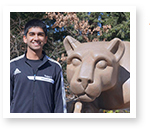
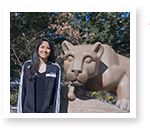
Updated Newsletter
Updated Newsletter June

diff --git a/newsletter/index.html b/newsletter/index.html
@@ -1,7 +1,8 @@
-<!DOCTYPE html PUBLIC "-//W3C//DTD XHTML 1.0 Transitional//EN" "http://www.w3.org/TR/xhtml1/DTD/xhtml1-transitional.dtd">
+<!DOCTYPE html >
 <html xmlns="http://www.w3.org/1999/xhtml">
 <head>
 <meta http-equiv="Content-Type" content="text/html; charset=utf-8" />
+<link rel="shortcut icon" href="">
 <title>Infusion Newsletter</title>
 </head>
 
@@ -24,7 +25,7 @@
                         </table></td>
                     </tr>
                     <tr>
-                      <td height="30"><img src="images/blueline.jpg" width="343" height="30" border="0" alt=""/></td>
+                      <td height="30"><img src="http://www.pennstateinfusion.org/newsletter/images/blueline.jpg" width="343" height="30" border="0" alt=""/></td>
                     </tr>
                   </table></td>
               </tr>
@@ -52,8 +53,126 @@
                             <td height="35" align="left" valign="middle" style="border-bottom:2px dotted #000000"><font style="font-family: Georgia, 'Times New Roman', Times, serif; color:#000000; font-size:25px"><strong><em>Introducting Infusion 2017</em></strong></font></td>
                           </tr>
                           <tr>
-                            <td align="left" valign="top"><font style="font-family: Verdana, Geneva, sans-serif; color:#000000; font-size:13px; line-height:21px">Main Info</font></td>
+                            <td align="left" valign="top"><font style="font-family: Verdana, Geneva, sans-serif; color:#000000; font-size:13px; line-height:21px">To start off the fifth year of <i>Infusion</i>, the <i>Infusion</i> 2017 board would first like to thank you for all the support this past year. As we prepare for another successful year, we look forward to being in contact with you and updating you on the latest <i>Infusion</i> news using our newsletters. As the new board of <i>Infusion</i>, our goal is to continue the legacy this year and take the competition one step further as is done every year. To build a stronger relationship for the alumni and future boards, we have made this information sheet that we would like you to fill out so we can be in touch in different ways. Thank you!</br></br></font></td>
                           </tr>
+                          
+                          
+                          
+                          
+                          
+                    <tr>
+                        <td><table width="100%" border="0" cellspacing="0" cellpadding="0">
+                          <tr>
+                            <td><table width="100%" border="0" cellspacing="0" cellpadding="0">
+                              <tr>
+                                <td width="12%">&nbsp;</td>
+                                <td width="79%" bgcolor="#05bcda"><table width="100%" border="0" cellspacing="0" cellpadding="0">
+                                  <tr>
+                                    <td width="5%"></td>
+                                    <td width="90%" height="10"></td>
+                                    <td width="5%"></td>
+                                  </tr>
+                                  <tr>
+                                    <td>&nbsp;</td>
+                                    <td align="center"><font style="font-family: Georgia, 'Times New Roman', Times, serif; color:#ffffff; font-size:16px"><strong>BIRTHDAY SHOUTOUTS</strong></font></td>
+                                    <td>&nbsp;</td>
+                                  </tr>
+                                  <tr>
+                                    <td></td>
+                                    <td><table width="100%" border="0" cellspacing="0" cellpadding="0">
+                                      <tr>
+                                        <td height="5" style="border-bottom:1px solid #ffffff"></td>
+                                      </tr>
+                                      <tr>
+                                        <td height="5"></td>
+                                      </tr>
+                                    </table></td>
+                                    <td></td>
+                                  </tr>
+                                  <tr>
+                                    <td>&nbsp;</td>
+                                    <td align="left" valign="top"><font style="font-family: Georgia, 'Times New Roman', Times, serif; color:#ffffff; font-size:14px; line-height:21px"><i>Infusion</i> would like to wish these awesome people a very happy birthday!</font></td>
+                                    <td>&nbsp;</td>
+                                  </tr>
+                                  <tr>
+                                    <td>&nbsp;</td>
+                                    <td align="center"><font style="font-family: Georgia, 'Times New Roman', Times, serif; color:#ffffff; font-size:14px"><strong>RECENT BIRTHDAYS</strong></font></td>
+                                    <td>&nbsp;</td>
+                                  </tr>
+                                  <tr>
+                                    <td></td>
+                                    <td><table width="100%" border="0" cellspacing="0" cellpadding="0">
+                                      <tr>
+                                        <td height="5" style="border-bottom:1px solid #ffffff"></td>
+                                      </tr>
+                                      <tr>
+                                        <td height="5"></td>
+                                      </tr>
+                                    </table></td>
+                                    <td></td>
+                                  </tr>
+                                  <tr>
+                                    <td>&nbsp;</td>
+                                    <td align="middle" valign="top"><font style="font-family: Georgia, 'Times New Roman', Times, serif; color:#ffffff; font-size:12px; line-height:21px">Shivani Khushal &nbsp &nbsp &nbsp &nbsp<font style="font-family: Georgia, 'Times New Roman', Times, serif; color:#ffffff; font-size:10px; line-height:21px">May 1st</font></font></td>
+                                    <td>&nbsp;</td>
+                                  </tr>
+                                  <tr>
+                                    <td>&nbsp;</td>
+                                    <td align="middle" valign="top"><font style="font-family: Georgia, 'Times New Roman', Times, serif; color:#ffffff; font-size:12px; line-height:21px">Anuj Ahluwalia &nbsp &nbsp &nbsp &nbsp<font style="font-family: Georgia, 'Times New Roman', Times, serif; color:#ffffff; font-size:10px; line-height:21px">May 30th</font></font></td>
+                                    <td>&nbsp;</td>
+                                  </tr>
+                                  <!--<tr>
+                                    <td>&nbsp;</td>
+                                    <td align="center"><a href="http://yourlink" target="_blank"><img src="images/NEWSLETTER GREEN04.jpg" alt="view more offers" width="129" height="43" style="display:block" border="0"/></a></td>
+                                    <td>&nbsp;</td>
+                                  </tr>-->
+                                  
+                                  <tr>
+                                    <td>&nbsp;</td>
+                                    <td align="center"><font style="font-family: Georgia, 'Times New Roman', Times, serif; color:#ffffff; font-size:14px"><strong>UPCOMING BIRTHDAYS</strong></font></td>
+                                    <td>&nbsp;</td>
+                                  </tr>
+                                  <tr>
+                                    <td></td>
+                                    <td><table width="100%" border="0" cellspacing="0" cellpadding="0">
+                                      <tr>
+                                        <td height="5" style="border-bottom:1px solid #ffffff"></td>
+                                      </tr>
+                                      <tr>
+                                        <td height="5"></td>
+                                      </tr>
+                                    </table></td>
+                                    <td></td>
+                                  </tr>
+                                  <tr>
+                                    <td>&nbsp;</td>
+                                    <td align="middle" valign="top"><font style="font-family: Georgia, 'Times New Roman', Times, serif; color:#ffffff; font-size:12px; line-height:21px">Vedant Tiwari &nbsp &nbsp &nbsp &nbsp<font style="font-family: Georgia, 'Times New Roman', Times, serif; color:#ffffff; font-size:10px; line-height:21px">June 17th</font></font></td>
+                                    <td>&nbsp;</td>
+                                  </tr>
+                                  <!--<tr>
+                                    <td>&nbsp;</td>
+                                    <td align="center"><a href="http://yourlink" target="_blank"><img src="images/NEWSLETTER GREEN04.jpg" alt="view more offers" width="129" height="43" style="display:block" border="0"/></a></td>
+                                    <td>&nbsp;</td>
+                                  </tr>-->
+                                  <tr>
+                                    <td>&nbsp;</td>
+                                    <td>&nbsp;</td>
+                                    <td>&nbsp;</td>
+                                  </tr>
+                                </table></td>
+                                <td width="9%" >&nbsp;</td>
+                              </tr>
+                            </table></td>
+                          </tr>
+                          <tr>
+                            <td>&nbsp;</td>
+                          </tr>
+                        </table></td>
+                      </tr>
+                          
+                          
+                          
+                          
                           <tr>
                             <td height="35" align="left" valign="middle" style="border-bottom:2px dotted #000000"><font style="font-family: Georgia, 'Times New Roman', Times, serif; color:#000000; font-size:15px"><strong><em>Introducting the Infusion 2017 Board</em></strong></font></td>
                             <td><table width="100%" border="0" cellspacing="0" cellpadding="0">
@@ -69,8 +188,9 @@
                             <td><table width="100%" border="0" cellspacing="0" cellpadding="0">
                               <tr>
                                 <td width="43%"><img src="http://www.pennstateinfusion.org/newsletter/images/pic1.jpg" width="150" height="130" border="0" alt=""/></td>
-                                <td width="57%" align="left" valign="top"><font style="font-family: Georgia, 'Times New Roman', Times, serif; color:#05bcda; font-size:20px"><strong><em>First Board Member</em></strong></font> <br />
-                                  <font style="font-family: Verdana, Geneva, sans-serif; color:#000000; font-size:13px; line-height:21px">Bio</font> <font style="font-family:Verdana, Geneva, sans-serif; color:#05bcda; font-size:12px; line-height:20px"></font><font style="font-family: Verdana, Geneva, sans-serif; color:#000000; font-size:13px; line-height:21px">&nbsp; </font></td>
+                                <td width="57%" align="left" valign="top"><font style="font-family: Georgia, 'Times New Roman', Times, serif; color:#05bcda; font-size:20px"><strong><em>Alisha Jaggi</em></strong></font> <br />
+                                  <font style="font-family: Georgia, 'Times New Roman', Times, serif; color:#05bcda; font-size:15px">Events Director</font> <br />
+                                  <font style="font-family: Verdana, Geneva, sans-serif; color:#000000; font-size:13px; line-height:21px">Alisha Jaggi is a senior studying Supply Chain Management with a minor in Information Systems Management here at Penn State. After being a volunteer for <i>Infusion</i> 2016, she is super excited to be joining board as one of the Event Directors this year. Along with <i>Infusion</i>, Alisha is a sister and former President of Sigma Sigma Rho Sorority, Inc. A fun fact about Alisha is she has played softball since the age of 6. In her free time, you will most likely find her hanging out with friends or binge watching the latest drama series on Netflix. Alisha is looking forward to showing her passion and enthusiasm while bringing <i>Infusion</i> 2017 to new heights!</font> <font style="font-family:Verdana, Geneva, sans-serif; color:#05bcda; font-size:12px; line-height:20px"></font><font style="font-family: Verdana, Geneva, sans-serif; color:#000000; font-size:13px; line-height:21px">&nbsp; </font></td>
                               </tr>
                             </table></td>
                           </tr>
@@ -88,8 +208,9 @@
                             <td><table width="100%" border="0" cellspacing="0" cellpadding="0">
                               <tr>
                                 <td width="43%"><img src="http://www.pennstateinfusion.org/newsletter/images/pic2.jpg" width="150" height="130" border="0" alt=""/></td>
-                                <td width="57%" align="left" valign="top"><font style="font-family: Georgia, 'Times New Roman', Times, serif; color:#05bcda; font-size:20px"><strong><em>Second Board Member</em></strong></font> <br />
-                                  <font style="font-family: Verdana, Geneva, sans-serif; color:#000000; font-size:13px; line-height:21px">Bio</font> <font style="font-family:Verdana, Geneva, sans-serif; color:#05bcda; font-size:12px; line-height:20px"></font><font style="font-family: Verdana, Geneva, sans-serif; color:#000000; font-size:13px; line-height:21px">&nbsp; </font></td>
+                                <td width="57%" align="left" valign="top"><font style="font-family: Georgia, 'Times New Roman', Times, serif; color:#05bcda; font-size:20px"><strong><em>Anjana Setlur</em></strong></font> <br />
+                                  <font style="font-family: Georgia, 'Times New Roman', Times, serif; color:#05bcda; font-size:15px">Sponsorship Director</font> <br />
+                                  <font style="font-family: Verdana, Geneva, sans-serif; color:#000000; font-size:13px; line-height:21px">Anjana Setlur is a junior majoring in BioRenewable Systems. She is ecstatic to be returning for her second year on board as Sponsorship Director. In Anjana's free time she likes to watch Netflix, play soccer, or look at pictures of her dog, Arthur. She's loved her experiences with Infusion the past two years and can't wait to see what <i>Infusion</i> 2017 has in store!  </font> <font style="font-family:Verdana, Geneva, sans-serif; color:#05bcda; font-size:12px; line-height:20px"></font><font style="font-family: Verdana, Geneva, sans-serif; color:#000000; font-size:13px; line-height:21px">&nbsp; </font></td>
                               </tr>
                             </table></td>
                           </tr>
@@ -106,9 +227,10 @@
                           <tr>
                             <td><table width="100%" border="0" cellspacing="0" cellpadding="0">
                               <tr>
-                                <td width="43%"><img src="http://www.pennstateinfusion.org/newsletter/images/pic2.jpg" width="150" height="130" border="0" alt=""/></td>
-                                <td width="57%" align="left" valign="top"><font style="font-family: Georgia, 'Times New Roman', Times, serif; color:#05bcda; font-size:20px"><strong><em>Third Board Member</em></strong></font> <br />
-                                  <font style="font-family: Verdana, Geneva, sans-serif; color:#000000; font-size:13px; line-height:21px">Bio</font> <font style="font-family:Verdana, Geneva, sans-serif; color:#05bcda; font-size:12px; line-height:20px"></font><font style="font-family: Verdana, Geneva, sans-serif; color:#000000; font-size:13px; line-height:21px">&nbsp; </font></td>
+                                <td width="43%"><img src="http://www.pennstateinfusion.org/newsletter/images/pic3.jpg" width="150" height="130" border="0" alt=""/></td>
+                                <td width="57%" align="left" valign="top"><font style="font-family: Georgia, 'Times New Roman', Times, serif; color:#05bcda; font-size:20px"><strong><em>Gitanjali Bhushan</em></strong></font> <br />
+                                  <font style="font-family: Georgia, 'Times New Roman', Times, serif; color:#05bcda; font-size:15px">Events Director</font> <br />
+                                  <font style="font-family: Verdana, Geneva, sans-serif; color:#000000; font-size:13px; line-height:21px">Gitanjali is a senior majoring in Immunology and Infectious Disease with a minor in Spanish language. She can't wait to be back for her 4th year of <i>Infusion</i>. She started off as a public relations manager for <i>Infusion</i> 2014 then moved on as a Public relations director for <i>Infusion</i> 2015. She is excited to see what's in store for <i>Infusion</i> 2017.</font> <font style="font-family:Verdana, Geneva, sans-serif; color:#05bcda; font-size:12px; line-height:20px"></font><font style="font-family: Verdana, Geneva, sans-serif; color:#000000; font-size:13px; line-height:21px">&nbsp; </font></td>
                               </tr>
                             </table></td>
                           </tr>
@@ -125,9 +247,10 @@
                           <tr>
                             <td><table width="100%" border="0" cellspacing="0" cellpadding="0">
                               <tr>
-                                <td width="43%"><img src="http://www.pennstateinfusion.org/newsletter/images/pic2.jpg" width="150" height="130" border="0" alt=""/></td>
-                                <td width="57%" align="left" valign="top"><font style="font-family: Georgia, 'Times New Roman', Times, serif; color:#05bcda; font-size:20px"><strong><em>Fourth Board Member</em></strong></font> <br />
-                                  <font style="font-family: Verdana, Geneva, sans-serif; color:#000000; font-size:13px; line-height:21px">Bio</font> <font style="font-family:Verdana, Geneva, sans-serif; color:#05bcda; font-size:12px; line-height:20px"></font><font style="font-family: Verdana, Geneva, sans-serif; color:#000000; font-size:13px; line-height:21px">&nbsp; </font></td>
+                                <td width="43%"><img src="http://www.pennstateinfusion.org/newsletter/images/pic4.jpg" width="150" height="130" border="0" alt=""/></td>
+                                <td width="57%" align="left" valign="top"><font style="font-family: Georgia, 'Times New Roman', Times, serif; color:#05bcda; font-size:20px"><strong><em>Kajal Jaggi</em></strong></font> <br />
+                                  <font style="font-family: Georgia, 'Times New Roman', Times, serif; color:#05bcda; font-size:15px">Registration Director</font> <br />
+                                  <font style="font-family: Verdana, Geneva, sans-serif; color:#000000; font-size:13px; line-height:21px">Kajal Jaggi is a Senior studying Hospitality Management. Ever since she was a child, she has had a passion for dancing by taking classes, starting up classes for children, and even dancing for Penn State JaDhoom. This is Kajal's third and final year on <i>Infusion</i> board, having served as the Executive/Registration Director in 2016 and the Sponsorship Director in 2015. When she's not spending time with her lovely family, you can find her relaxing with a Starbucks in her hand and being a reality show junkie.</font> <font style="font-family:Verdana, Geneva, sans-serif; color:#05bcda; font-size:12px; line-height:20px"></font><font style="font-family: Verdana, Geneva, sans-serif; color:#000000; font-size:13px; line-height:21px">&nbsp; </font></td>
                               </tr>
                             </table></td>
                           </tr>
@@ -144,9 +267,10 @@
                           <tr>
                             <td><table width="100%" border="0" cellspacing="0" cellpadding="0">
                               <tr>
-                                <td width="43%"><img src="http://www.pennstateinfusion.org/newsletter/images/pic2.jpg" width="150" height="130" border="0" alt=""/></td>
-                                <td width="57%" align="left" valign="top"><font style="font-family: Georgia, 'Times New Roman', Times, serif; color:#05bcda; font-size:20px"><strong><em>Fifth Board Member</em></strong></font> <br />
-                                  <font style="font-family: Verdana, Geneva, sans-serif; color:#000000; font-size:13px; line-height:21px">Bio</font> <font style="font-family:Verdana, Geneva, sans-serif; color:#05bcda; font-size:12px; line-height:20px"></font><font style="font-family: Verdana, Geneva, sans-serif; color:#000000; font-size:13px; line-height:21px">&nbsp; </font></td>
+                                <td width="43%"><img src="http://www.pennstateinfusion.org/newsletter/images/pic5.jpg" width="150" height="130" border="0" alt=""/></td>
+                                <td width="57%" align="left" valign="top"><font style="font-family: Georgia, 'Times New Roman', Times, serif; color:#05bcda; font-size:20px"><strong><em>Pratyush Parasana</em></strong></font> <br />
+                                  <font style="font-family: Georgia, 'Times New Roman', Times, serif; color:#05bcda; font-size:15px">Registration Director</font> <br />
+                                  <font style="font-family: Verdana, Geneva, sans-serif; color:#000000; font-size:13px; line-height:21px">Pratyush Parasana is a Junior majoring in Sociology and minoring in Math and Chemistry. Not a dancer himself but his passion has driven him to get more involved in the fusion circuit. Prat began his <i>Infusion</i> career as a volunteer in 2015 and Liaison for 2016. When he is not stressing about DAT's and life in general, you may occasionally spot him playing Frisbee out and about. Pratyush also likes to take a break and relax by watching The 100 or re-watching shows such as Burn Notice and NCIS. </font> <font style="font-family:Verdana, Geneva, sans-serif; color:#05bcda; font-size:12px; line-height:20px"></font><font style="font-family: Verdana, Geneva, sans-serif; color:#000000; font-size:13px; line-height:21px">&nbsp; </font></td>
                               </tr>
                             </table></td>
                           </tr>
@@ -163,9 +287,10 @@
                           <tr>
                             <td><table width="100%" border="0" cellspacing="0" cellpadding="0">
                               <tr>
-                                <td width="43%"><img src="http://www.pennstateinfusion.org/newsletter/images/pic2.jpg" width="150" height="130" border="0" alt=""/></td>
-                                <td width="57%" align="left" valign="top"><font style="font-family: Georgia, 'Times New Roman', Times, serif; color:#05bcda; font-size:20px"><strong><em>Sixth Board Member</em></strong></font> <br />
-                                  <font style="font-family: Verdana, Geneva, sans-serif; color:#000000; font-size:13px; line-height:21px">Bio</font> <font style="font-family:Verdana, Geneva, sans-serif; color:#05bcda; font-size:12px; line-height:20px"></font><font style="font-family: Verdana, Geneva, sans-serif; color:#000000; font-size:13px; line-height:21px">&nbsp; </font></td>
+                                <td width="43%"><img src="http://www.pennstateinfusion.org/newsletter/images/pic6.jpg" width="150" height="130" border="0" alt=""/></td>
+                                <td width="57%" align="left" valign="top"><font style="font-family: Georgia, 'Times New Roman', Times, serif; color:#05bcda; font-size:20px"><strong><em>Shonaq Gupta</em></strong></font> <br />
+                                  <font style="font-family: Georgia, 'Times New Roman', Times, serif; color:#05bcda; font-size:15px">Finance Director</font> <br />
+                                  <font style="font-family: Verdana, Geneva, sans-serif; color:#000000; font-size:13px; line-height:21px">Originally from New Delhi, India- Shonaq is a Senior majoring in Supply Chain and Information systems and double minoring in Economics and Entrepreneurship. As he started living his “American College” dream here at Penn State, he got acquainted with the Filmi-Fusion dance circuit through <i>Infusion</i> and is now all set to take it to new heights. Shonaq is the "go to guy" to know about the best music and beat drops as he is a big fan of EDM (Electronic Dance Music) and Hindi music. In his free time you may find him sitting with his beloved laptop, catching up with Bollywood and Hollywood movies or traveling around the world exploring new cultures and food.</font> <font style="font-family:Verdana, Geneva, sans-serif; color:#05bcda; font-size:12px; line-height:20px"></font><font style="font-family: Verdana, Geneva, sans-serif; color:#000000; font-size:13px; line-height:21px">&nbsp; </font></td>
                               </tr>
                             </table></td>
                           </tr>
@@ -182,9 +307,10 @@
                           <tr>
                             <td><table width="100%" border="0" cellspacing="0" cellpadding="0">
                               <tr>
-                                <td width="43%"><img src="http://www.pennstateinfusion.org/newsletter/images/pic2.jpg" width="150" height="130" border="0" alt=""/></td>
-                                <td width="57%" align="left" valign="top"><font style="font-family: Georgia, 'Times New Roman', Times, serif; color:#05bcda; font-size:20px"><strong><em>Seventh Board Member</em></strong></font> <br />
-                                  <font style="font-family: Verdana, Geneva, sans-serif; color:#000000; font-size:13px; line-height:21px">Bio</font> <font style="font-family:Verdana, Geneva, sans-serif; color:#05bcda; font-size:12px; line-height:20px"></font><font style="font-family: Verdana, Geneva, sans-serif; color:#000000; font-size:13px; line-height:21px">&nbsp; </font></td>
+                                <td width="43%"><img src="http://www.pennstateinfusion.org/newsletter/images/pic7.jpg" width="150" height="130" border="0" alt=""/></td>
+                                <td width="57%" align="left" valign="top"><font style="font-family: Georgia, 'Times New Roman', Times, serif; color:#05bcda; font-size:20px"><strong><em>Vedant Tiwari</em></strong></font> <br />
+                                  <font style="font-family: Georgia, 'Times New Roman', Times, serif; color:#05bcda; font-size:15px">Executive and Tech & Production Director</font> <br />
+                                  <font style="font-family: Verdana, Geneva, sans-serif; color:#000000; font-size:13px; line-height:21px">"Imagination is the power you cannot imagine" I believe there really is no limit to possibilities today. I like to tackle every challenge with more challenges; if something needs to get done, why not put a time limit on there to make myself work harder? My favortie hobby by far is driving (You recent alumni know this)! As a returning Technology & Production Director, I hope to use my tech skills to take <i>Infusion</i> one step further this year. As an Executive Director, I hope to make everyone's dream <i>Infusion</i> weekend happen.</font> <font style="font-family:Verdana, Geneva, sans-serif; color:#05bcda; font-size:12px; line-height:20px"></font><font style="font-family: Verdana, Geneva, sans-serif; color:#000000; font-size:13px; line-height:21px">&nbsp; </font></td>
                               </tr>
                             </table></td>
                           </tr>
@@ -202,7 +328,7 @@
                       <tr>
                         <td height="10"> </td>
                       </tr>
-                      <!--<tr>
+                      <tr>
                         <td><table width="100%" border="0" cellspacing="0" cellpadding="0">
                           <tr>
                             <td><a href="http://yourlink" target="_blank"><img src="images/NEWSLETTER GREEN03.jpg" alt="buy her" width="181" height="144" border="0"/></a></td>
@@ -217,7 +343,7 @@
                                     <td width="90%" height="10"></td>
                                     <td width="5%"></td>
                                   </tr>
-                                  <tr>--
+                                  <tr>
                                     <td>&nbsp;</td>
                                     <td align="center"><font style="font-family: Georgia, 'Times New Roman', Times, serif; color:#ffffff; font-size:16px"><strong>SPECIAL
                                       COLUMN</strong></font></td>
@@ -276,7 +402,7 @@
           <td>&nbsp;</td>
         </tr>
         <tr>
-          <td><img src="images/line.jpg" width="598" height="7" style="display:block" border="0" alt=""/></td>
+          <td><img src="http://www.pennstateinfusion.org/newsletter/images/line.jpg" width="598" height="7" style="display:block" border="0" alt=""/></td>
         </tr>
         <tr>
           <td>&nbsp;</td>
@@ -306,7 +432,7 @@
           <td>&nbsp;</td>
         </tr>
         <tr>
-          <td align="center"><font style="font-family:'Myriad Pro', Helvetica, Arial, sans-serif; color:#231f20; font-size:8px"><strong>The Infusion Management Team | Please email back with "STOP" to unsubscribe | email: pennstateinfusion@gmail.com | <a href= "http://www.pennstateinfusion.org" style="color:#010203; text-decoration:none">www.pennstateinfusion.org</a></strong></font></td>
+          <td align="center"><font style="font-family:'Myriad Pro', Helvetica, Arial, sans-serif; color:#231f20; font-size:8px"><strong>The Infusion Management Team | Reply with "UNSUBSCRIBE" to unsubscribe | Email: pennstateinfusion@gmail.com | <a href= "http://www.pennstateinfusion.org" style="color:#010203; text-decoration:none">www.pennstateinfusion.org</a></strong></font></td>
         </tr>
         <tr>
           <td>&nbsp;</td>
